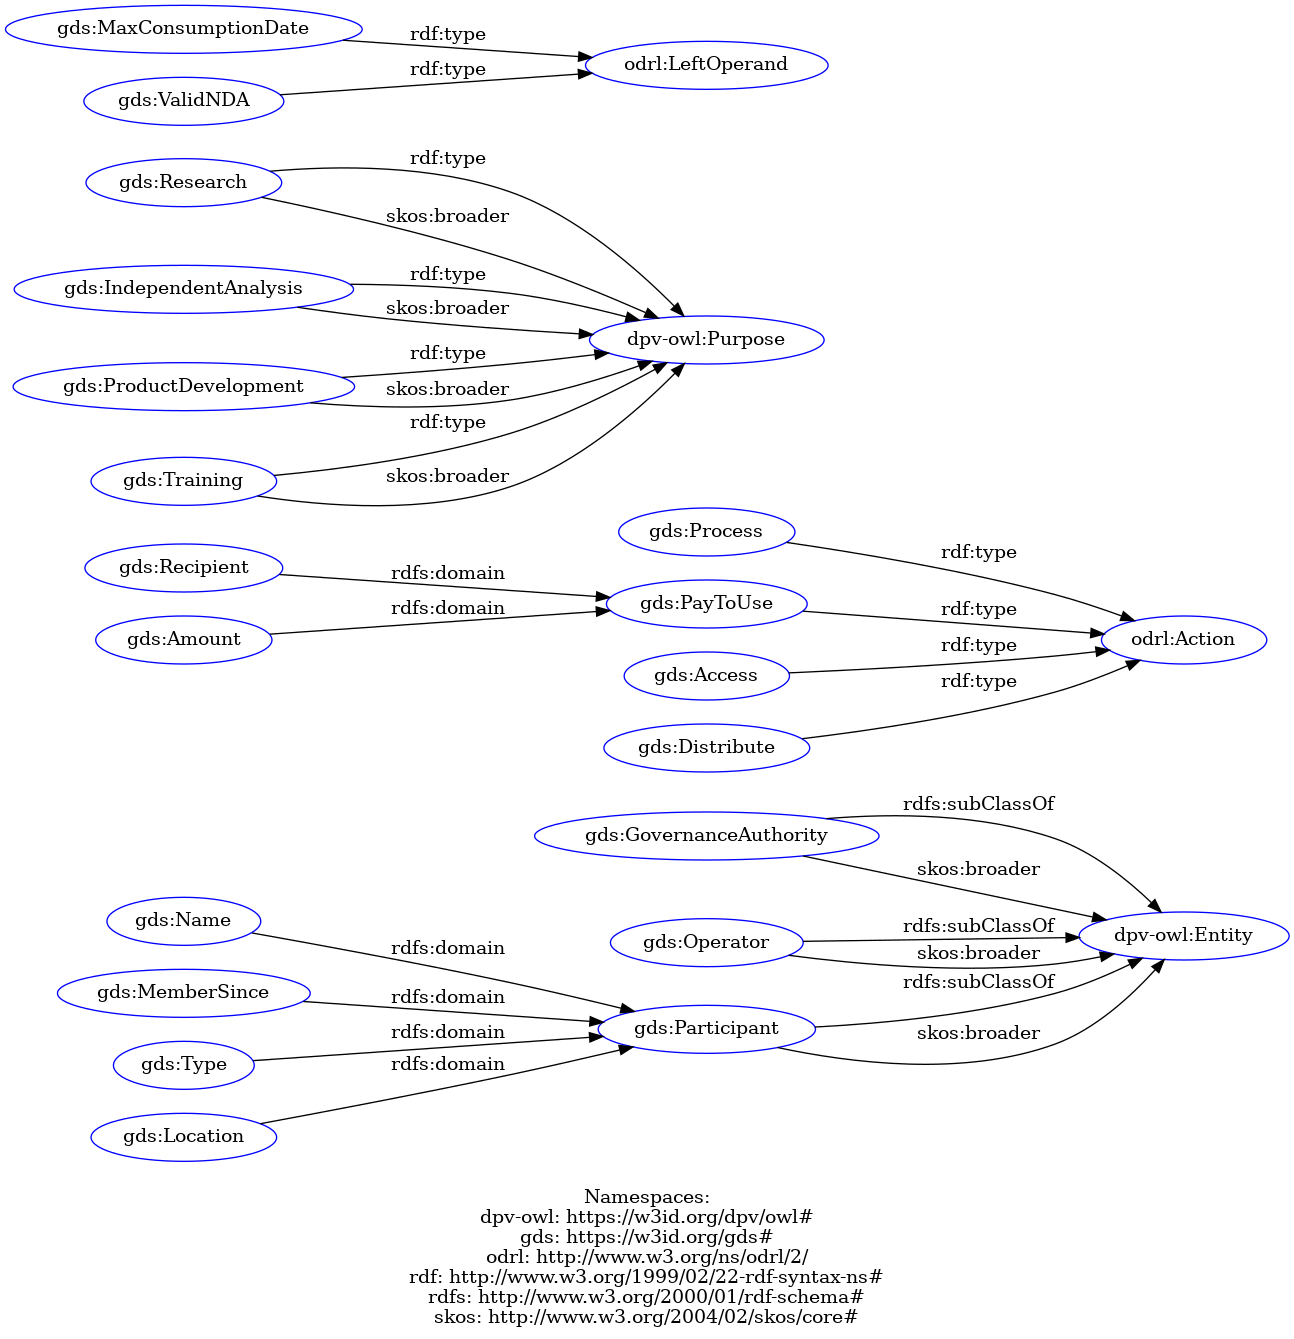
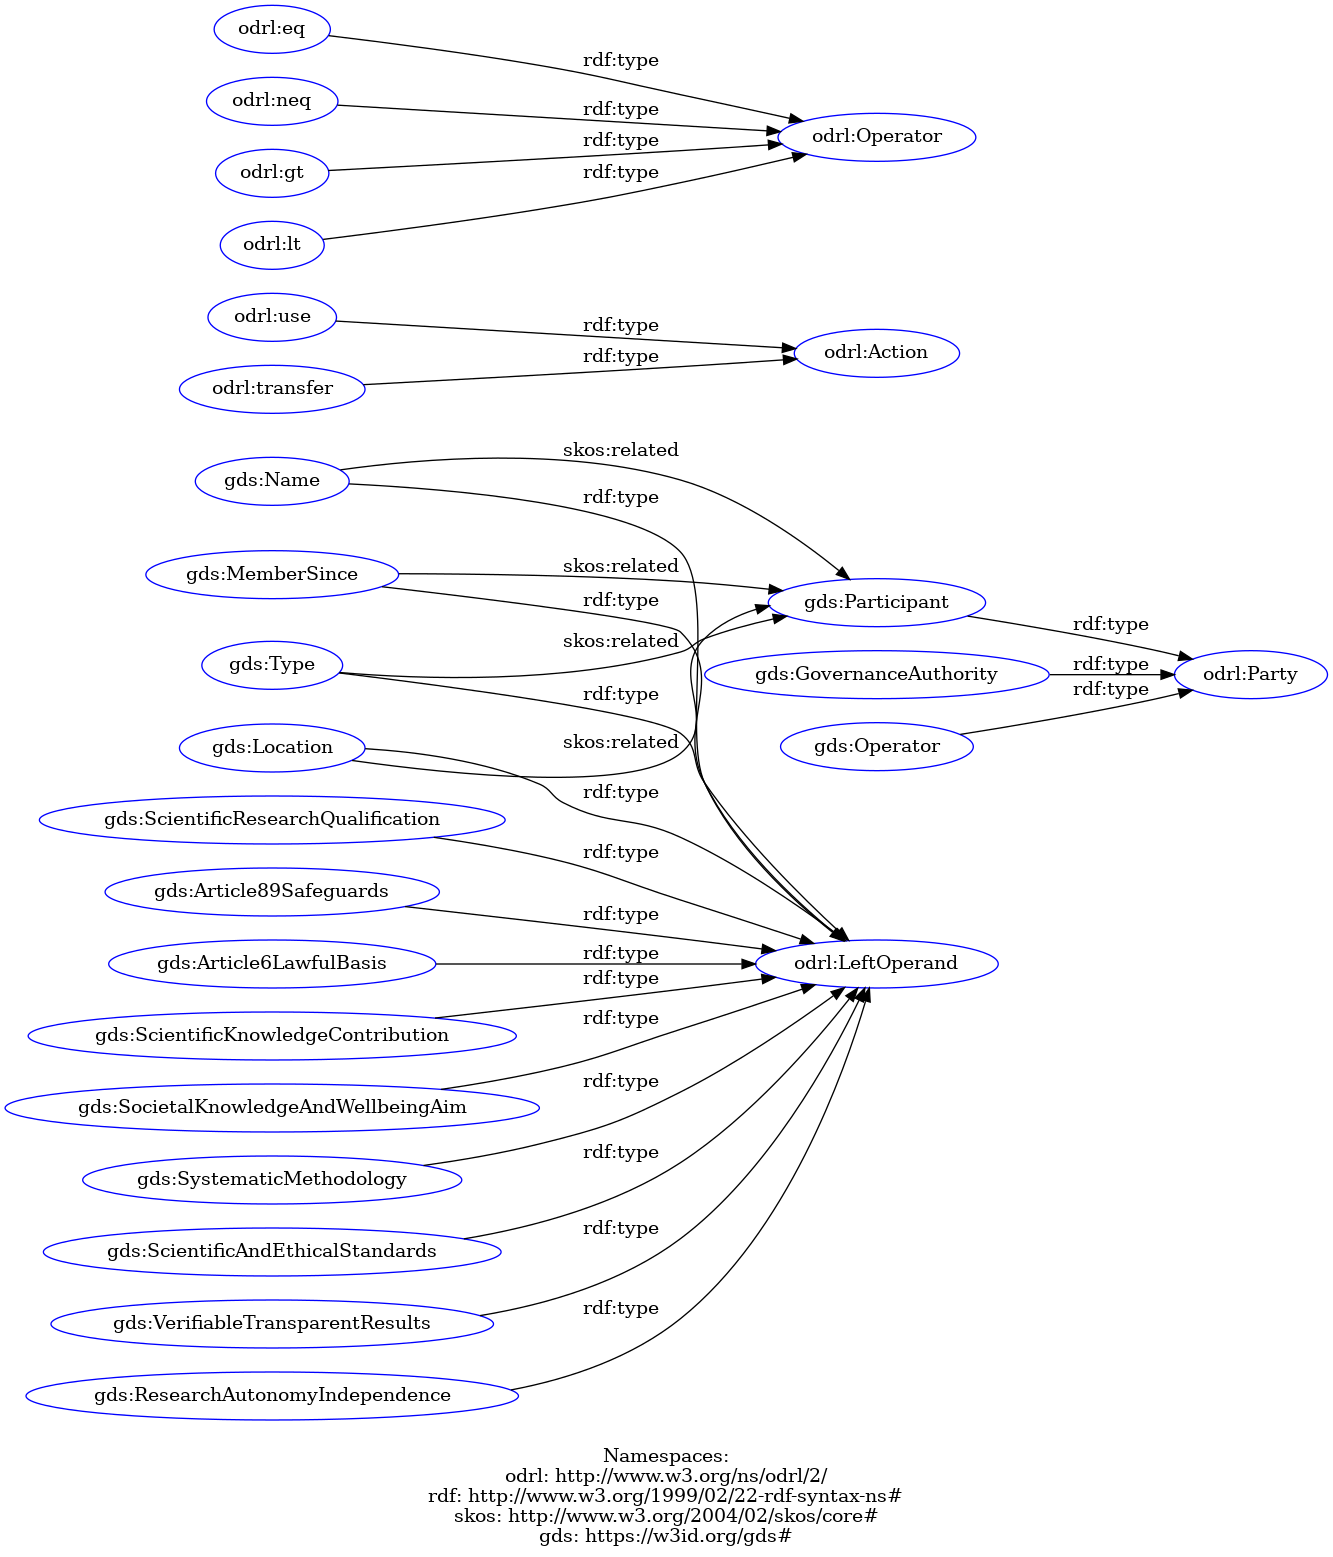
Add next version of GATE Data Spaces ODRL Profile (v0.2.0)

diff --git a/docs/README.md b/docs/README.md
@@ -10,3 +10,8 @@ The GDS ODRL Profile extends the W3C Open Digital Rights Language (ODRL) with co
 
 - [Profile documentation](https://gate-institute.github.io/gateds-ontologies/gds/)
 - [Turtle specification v0.1.0](https://gate-institute.github.io/gateds-ontologies/gds/versions/v0.1.0/gds.ttl)
+
+**Version:** 0.2.0
+
+- [Profile documentation](https://gate-institute.github.io/gateds-ontologies/gds/)
+- [Turtle specification v0.1.0](https://gate-institute.github.io/gateds-ontologies/gds/versions/v0.2.0/gds.ttl)

diff --git a/docs/gds/README.md b/docs/gds/README.md
@@ -1,6 +1,6 @@
 # GATE Data Spaces ODRL Profile
 
-**Version:** 0.1.0  
+**Version:** 0.2.0  
 **Status:** Experimental  
 **Maintainer:** GATE Institute
 
@@ -14,7 +14,7 @@ The profile defines domain-specific concepts and reuses existing semantic vocabu
 
 - **Profile:** https://w3id.org/gds/profile
 - **Vocabulary namespace:** https://w3id.org/gds#
-- **Version 0.1.0:** https://w3id.org/gds/profile/v0.1.0
+- **Version 0.2.0:** https://w3id.org/gds/profile/v0.2.0
 
 ## Machine-Readable Specification
 

diff --git a/docs/gds/versions/v0.2.0/README.md b/docs/gds/versions/v0.2.0/README.md
@@ -27,3 +27,5 @@ The profile is available in Turtle (RDF):
 This is an experimental release. The vocabulary and its semantics may evolve in subsequent versions.
 
 Previous releases are preserved in the `versions/` directory.
+
+![GDS ODRL Profile Overview](images/gds-overview.png)
